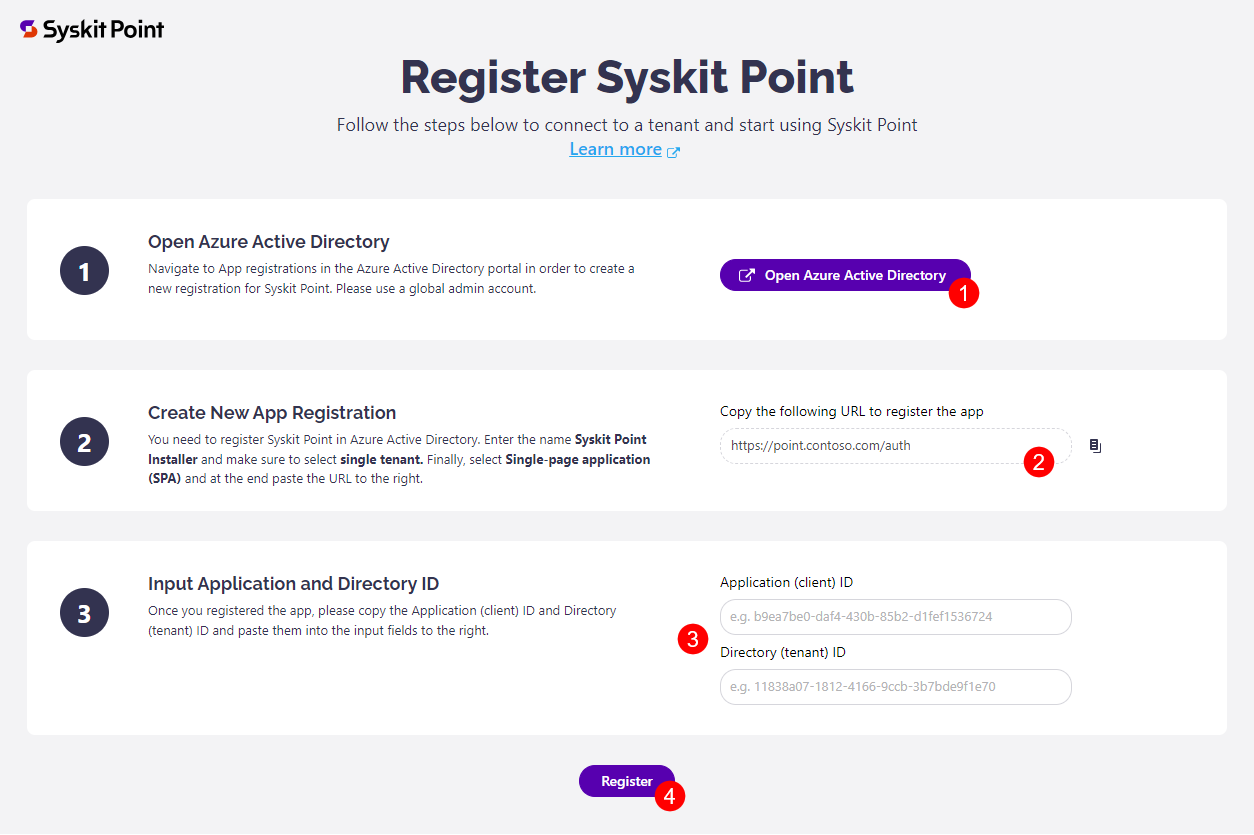
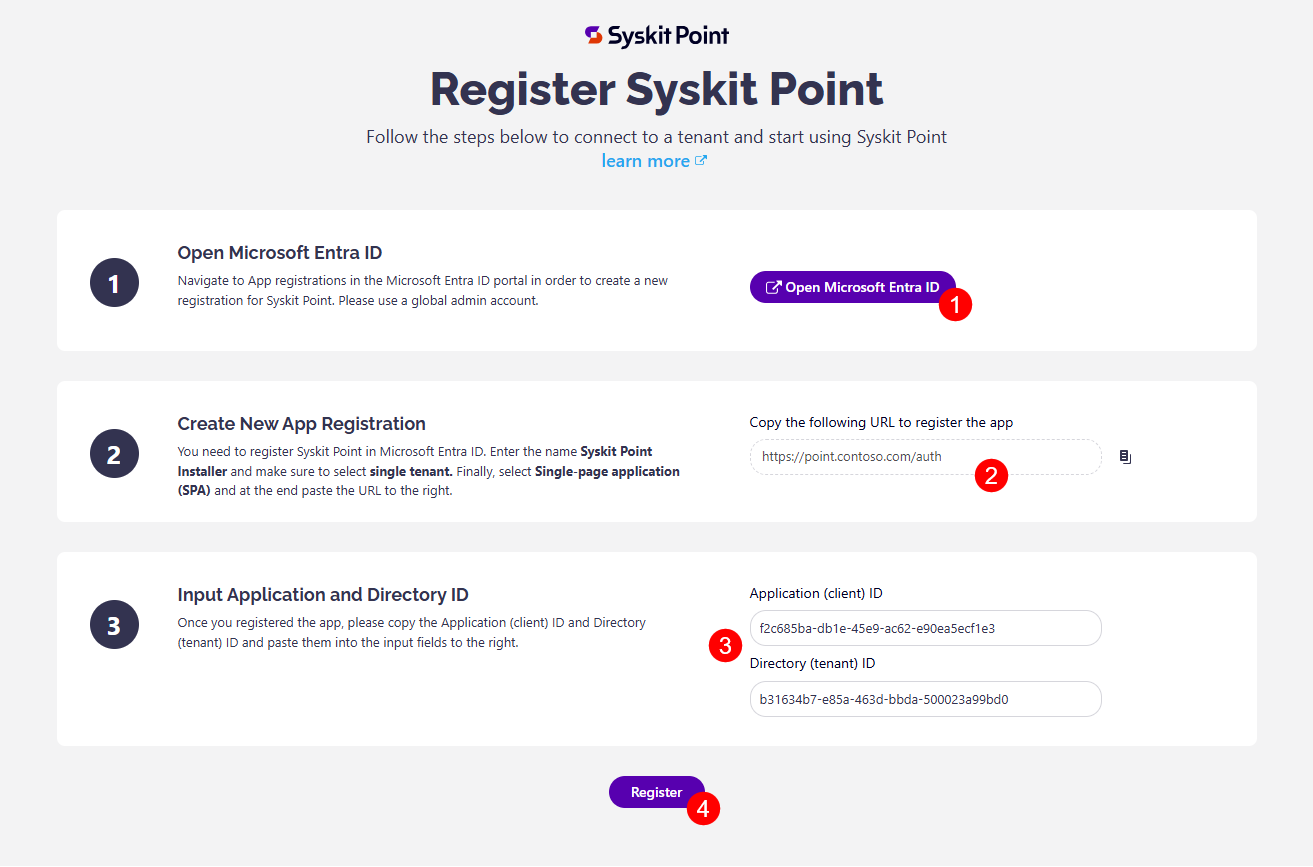
Entra ID rename

diff --git a/docs/set-up-point-enterprise/deployment/connect-to-tenant.md b/docs/set-up-point-enterprise/deployment/connect-to-tenant.md
@@ -21,7 +21,7 @@ When **connecting to a Microsoft 365 tenant for the first time, you are required
 
 Open the **Syskit Point Web App URL** in a browser to start the initial connection process. The **Register Syskit Point** page opens, guiding you through the initial connecting process:
 
-* click the **Open Azure Active Directory button (1)** to open the **App registrations** screen in Azure Active Directory admin center and create the **Syskit Point Installer** app registration
+* click the **Open Microsoft Entra ID button (1)** to open the **App registrations** screen in Microsoft Entra ID portal and create the **Syskit Point Installer** app registration
 * copy the provided **URL (2)** needed when creating the **Syskit Point Installer** app registration
 * input the **Application (client) ID** and **Directory (tenant) ID (3)** available once you create the **Syskit Point Installer** app registration
 * click the **Register button (4)** after you enter the required data
@@ -32,7 +32,7 @@ To obtain the **Application (client) ID** and **Directory (tenant) ID**, create 
 
 ## Create App Registration
 
-Open the **App registrations** screen in Azure Active Directory admin center by clicking the **Open Azure Active Directory button** available on the **Register Syskit Point** screen described in the previous section.
+Open the **App registrations** screen in Microsoft Entra ID portal by clicking the **Open Microsoft Entra ID button** available on the **Register Syskit Point** screen described in the previous section.
 
 To create the required app registration used by Syskit Point, do the following:
 
